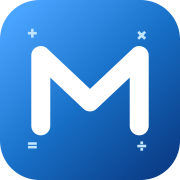
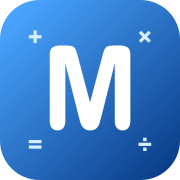
https://github.com/RikardSwed/Idrottsapp

diff --git a/index.html b/index.html
@@ -140,13 +140,32 @@
         </div>
       </section>
 
+      <section class="screen" id="upgrade-screen" aria-labelledby="upgrade-heading" hidden>
+        <div class="page-card dashboard-card">
+          <header class="small-banner upgrade-banner">
+            <p>MathClass Pro</p>
+            <h1 id="upgrade-heading" tabindex="-1">Uppgradera</h1>
+          </header>
+          <section class="progress-panel pro-panel">
+            <h2>Mer träning, fler möjligheter</h2>
+            <p>Här kommer du senare att kunna läsa om Pro-versionen och genomföra ett köp.</p>
+          </section>
+          <ul class="pro-list">
+            <li>Fler moment och träningslägen</li>
+            <li>Fördjupad statistik över dina framsteg</li>
+            <li>Personliga rekommendationer</li>
+          </ul>
+          <button class="primary-button" type="button" disabled>Kommer snart</button>
+        </div>
+      </section>
+
       <section class="screen" id="settings-screen" aria-labelledby="settings-heading" hidden>
         <div class="page-card inner-card">
           <button class="back-button" id="back-from-settings" type="button" aria-label="Tillbaka">←</button>
           <p class="eyebrow">MathClass</p>
           <h1 id="settings-heading" tabindex="-1">Profil &amp; inställningar</h1>
           <div class="profile-summary"><span>RM</span><div><strong>Rikard Månsson</strong><small>Profilnamn och initialer kan anpassas senare.</small></div></div>
-          <div class="settings-row"><span>Version</span><strong>0.4.0 · Blå Horisont</strong></div>
+          <div class="settings-row"><span>Version</span><strong>0.5.0 · Blå Krona</strong></div>
           <button class="list-button" id="open-updates" type="button"><span><strong>Uppdateringar</strong><small>Se vad som har lagts till</small></span><b>›</b></button>
         </div>
       </section>
@@ -156,6 +175,7 @@
           <button class="back-button" id="back-from-updates" type="button" aria-label="Tillbaka till inställningar">←</button>
           <p class="eyebrow">MathClass</p>
           <h1 id="updates-heading" tabindex="-1">Uppdateringar</h1>
+          <article class="release-note"><h2>Version 0.5.0 · Blå Krona</h2><p>Ny balanserad appikon med större M samt nederkantmenyn Aktiv ruta med fyra tydliga ikoner och krona för Uppgradera.</p></article>
           <article class="release-note"><h2>Version 0.4.0 · Blå Horisont</h2><p>Personlig hemskärm, nivåtaggar, sidindelade svep och ett nytt bibliotek.</p></article>
           <article class="release-note"><h2>Version 0.3.0</h2><p>Nivåval, material för alla högstadieområden, nederkantmeny, Framsteg och Bibliotek.</p></article>
           <article class="release-note"><h2>Version 0.2.0</h2><p>Flera träningslägen och stegvisa genomgångar.</p></article>
@@ -165,9 +185,10 @@
     </main>
 
     <nav class="bottom-nav" aria-label="Huvudmeny">
-      <button class="nav-button is-active" type="button" data-nav="home"><span class="nav-icon" aria-hidden="true"><b>⌂</b></span><small>Hem</small></button>
-      <button class="nav-button" type="button" data-nav="progress"><span class="nav-icon" aria-hidden="true"><b>↗</b></span><small>Framsteg</small></button>
-      <button class="nav-button" type="button" data-nav="library"><span class="nav-icon" aria-hidden="true"><b>▦</b></span><small>Bibliotek</small></button>
+      <button class="nav-button is-active" type="button" data-nav="home"><span class="nav-icon" aria-hidden="true"><svg viewBox="0 0 24 24"><path d="m3 11 9-8 9 8"/><path d="M5 10v10h14V10"/><path d="M9 20v-6h6v6"/></svg></span><small>Hem</small></button>
+      <button class="nav-button" type="button" data-nav="library"><span class="nav-icon" aria-hidden="true"><svg viewBox="0 0 24 24"><path d="M4 19.5A2.5 2.5 0 0 1 6.5 17H20"/><path d="M6.5 2H20v20H6.5A2.5 2.5 0 0 1 4 19.5v-15A2.5 2.5 0 0 1 6.5 2Z"/><path d="M8 7h8M8 11h6"/></svg></span><small>Bibliotek</small></button>
+      <button class="nav-button" type="button" data-nav="progress"><span class="nav-icon" aria-hidden="true"><svg viewBox="0 0 24 24"><path d="M4 20V10M10 20V4M16 20v-7M22 20H2"/></svg></span><small>Framsteg</small></button>
+      <button class="nav-button upgrade-nav-button" type="button" data-nav="upgrade"><span class="nav-icon" aria-hidden="true"><svg viewBox="0 0 24 24"><path d="m3 7 4.5 4L12 4l4.5 7L21 7l-2 11H5L3 7Z"/><path d="M5 22h12"/></svg></span><small>Uppgradera</small></button>
     </nav>
   </body>
 </html>

diff --git a/css/style.css b/css/style.css
@@ -121,6 +121,7 @@ button { -webkit-tap-highlight-color: transparent; }
 .small-banner { min-height: 116px; margin: -38px -38px 24px; border-radius: 27px 27px 0 0; }
 .small-banner h1 { font-size: 2.35rem; }
 .library-banner { background: linear-gradient(135deg, #247fd7, #173d83); }
+.upgrade-banner { background: linear-gradient(135deg, #247fd7, #3c4293); }
 
 .profile-button {
   display: grid;
@@ -332,6 +333,9 @@ h1:focus { outline: none; }
 .release-note { margin-bottom: 11px; padding: 16px; border: 1px solid #d1e0ed; border-radius: 16px; background: #f7fbff; }
 .release-note h2 { margin: 0 0 6px; font-size: 1rem; }
 .release-note p { margin: 0; color: #64778e; line-height: 1.45; }
+.pro-panel { margin-top: 0; }
+.pro-list { display: grid; gap: 10px; margin: 20px 0; padding-left: 22px; color: #526a83; }
+.pro-list li::marker { color: #176fc6; }
 
 .bottom-nav {
   position: fixed;
@@ -340,19 +344,19 @@ h1:focus { outline: none; }
   left: 0;
   z-index: 20;
   display: grid;
-  grid-template-columns: repeat(3, 1fr);
+  grid-template-columns: repeat(4, 1fr);
   height: calc(70px + env(safe-area-inset-bottom));
   padding: 5px max(12px, env(safe-area-inset-right)) env(safe-area-inset-bottom) max(12px, env(safe-area-inset-left));
   border-top: 1px solid #cbddec;
   background: rgba(255,255,255,.96);
   backdrop-filter: blur(16px);
 }
-.nav-button { display: grid; place-items: center; align-content: center; gap: 1px; border: 0; border-radius: 16px; color: #74869b; background: transparent; cursor: pointer; }
-.nav-icon { display: grid; width: 34px; height: 30px; place-items: center; border-radius: 12px; font-size: 1.15rem; line-height: 1; transition: width 160ms ease, color 160ms ease, background 160ms ease; }
-.nav-icon b { font-weight: 800; }
+.nav-button { display: grid; margin: 3px 2px; place-items: center; align-content: center; gap: 1px; border: 0; border-radius: 13px; color: #74869b; background: transparent; cursor: pointer; transition: color 160ms ease, background 160ms ease; }
+.nav-icon { display: grid; width: 30px; height: 27px; place-items: center; border-radius: 10px; line-height: 1; }
+.nav-icon svg { width: 21px; height: 21px; fill: none; stroke: currentColor; stroke-width: 2; stroke-linecap: round; stroke-linejoin: round; }
 .nav-button small { font-size: .7rem; font-weight: 750; }
-.nav-button.is-active { color: #176fc6; }
-.nav-button.is-active .nav-icon { width: 52px; color: #0755a0; background: #dceeff; }
+.nav-button.is-active { color: #0755a0; background: #dceeff; }
+.upgrade-nav-button { color: #96701d; }
 
 .quiz-card { will-change: transform, opacity; }
 .quiz-card.is-dragging { transition: none; }
